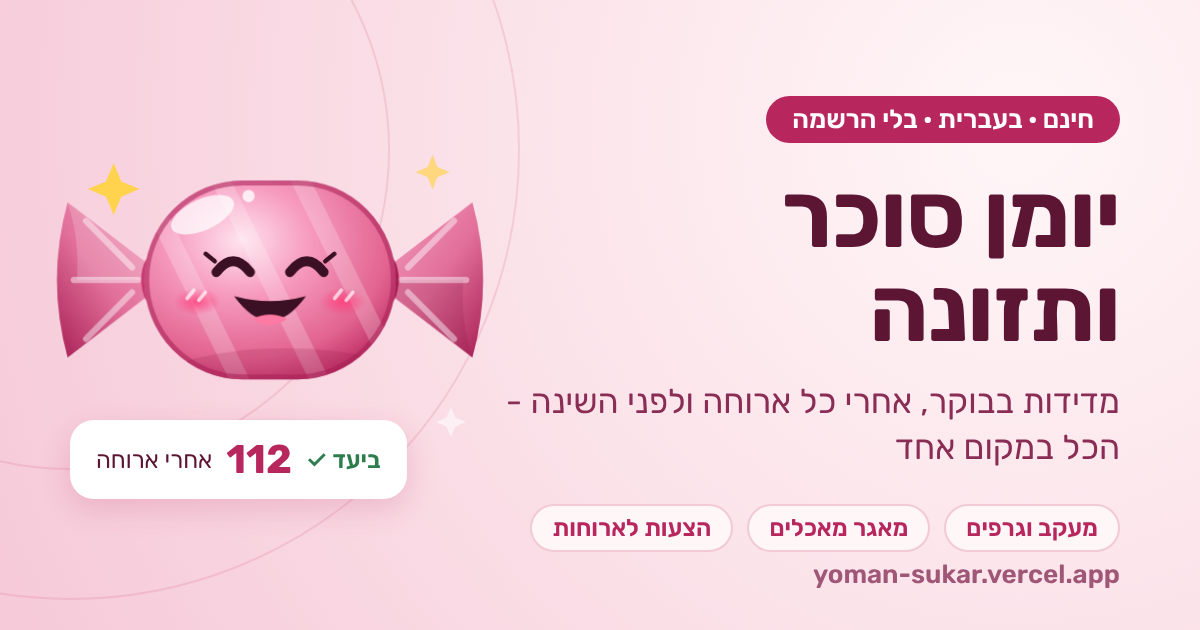
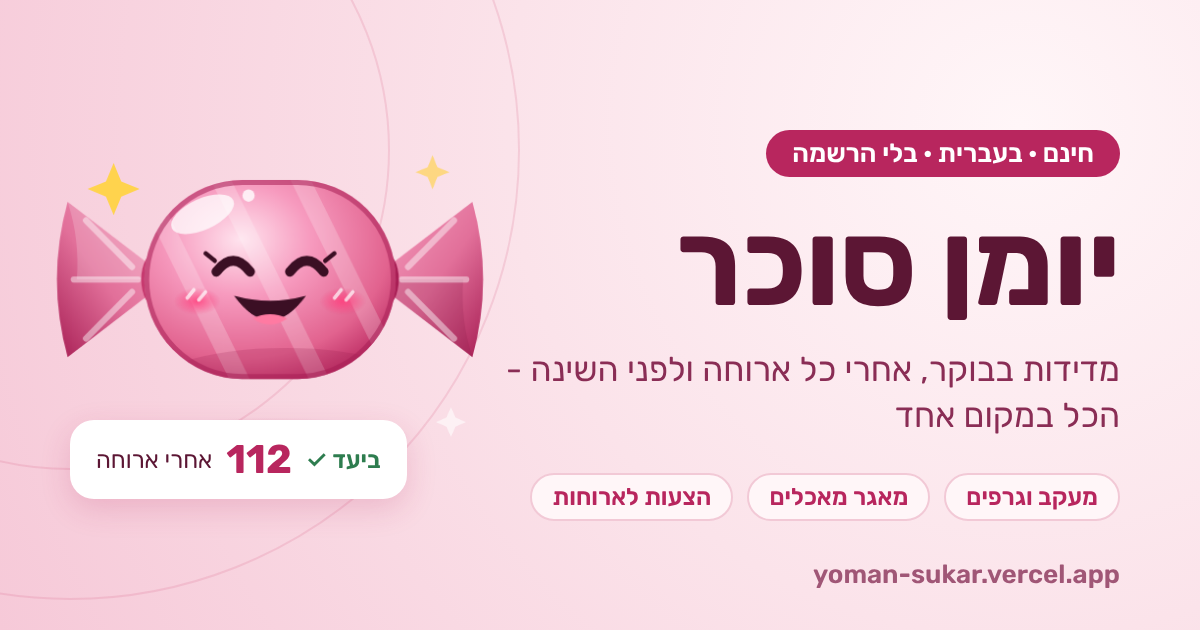
Rename site to יומן סוכר
Claude-Session: https://claude.ai/code/session_014cvJo4JqY7QRdCGnfRo7qm

diff --git a/indexl.html b/indexl.html
@@ -9,25 +9,25 @@
 <link rel="canonical" href="https://yoman-sukar.vercel.app/">
 <meta property="og:type" content="website">
 <meta property="og:locale" content="he_IL">
-<meta property="og:title" content="יומן סוכר ותזונה">
+<meta property="og:title" content="יומן סוכר">
 <meta property="og:description" content="מעקב יומי אחרי ערכי הסוכר והארוחות, במקום אחד ובחינם.">
 <meta property="og:url" content="https://yoman-sukar.vercel.app/">
-<meta property="og:site_name" content="יומן סוכר ותזונה">
+<meta property="og:site_name" content="יומן סוכר">
 <meta property="og:image" content="https://yoman-sukar.vercel.app/og-image.png">
 <meta property="og:image:width" content="1200">
 <meta property="og:image:height" content="630">
-<meta property="og:image:alt" content="יומן סוכר ותזונה - סוכריה מחייכת ותוצאת מדידה ביעד">
+<meta property="og:image:alt" content="יומן סוכר - סוכריה מחייכת ותוצאת מדידה ביעד">
 <meta name="twitter:card" content="summary_large_image">
 <meta name="twitter:image" content="https://yoman-sukar.vercel.app/og-image.png">
 <link rel="icon" href="/favicon.svg" type="image/svg+xml">
 <link rel="icon" href="/favicon-48.png" sizes="48x48" type="image/png">
 <link rel="apple-touch-icon" href="/apple-touch-icon.png">
 <meta name="theme-color" content="#9e1f50">
-<script type="application/ld+json">{"@context": "https://schema.org", "@type": "WebSite", "name": "יומן סוכר ותזונה", "alternateName": ["יומן סוכר"], "url": "https://yoman-sukar.vercel.app/", "inLanguage": "he"}</script>
+<script type="application/ld+json">{"@context": "https://schema.org", "@type": "WebSite", "name": "יומן סוכר", "alternateName": ["יומן סוכר אונליין"], "url": "https://yoman-sukar.vercel.app/", "inLanguage": "he"}</script>
 <style>body{margin:0}</style>
 <script>window.va=window.va||function(){(window.vaq=window.vaq||[]).push(arguments)};</script>
 <script defer src="/_vercel/insights/script.js"></script>
-<script type="application/ld+json">{"@context": "https://schema.org", "@type": "WebApplication", "name": "יומן סוכר ותזונה", "alternateName": ["יומן סוכר", "יומן מדידות סוכר"], "url": "https://yoman-sukar.vercel.app/", "inLanguage": "he", "applicationCategory": "HealthApplication", "operatingSystem": "Any", "offers": {"@type": "Offer", "price": "0", "priceCurrency": "ILS"}, "description": "יומן סוכר אונליין בחינם: רישום מדידות סוכר בצום, שעה ושעתיים אחרי ארוחות ולפני השינה, זיהוי מאכלים שמעלים את הסוכר והורדה לאקסל.", "creator": {"@type": "Person", "name": "נעמי בלייברג"}}</script>
+<script type="application/ld+json">{"@context": "https://schema.org", "@type": "WebApplication", "name": "יומן סוכר", "alternateName": ["יומן סוכר אונליין", "יומן מדידות סוכר"], "url": "https://yoman-sukar.vercel.app/", "inLanguage": "he", "applicationCategory": "HealthApplication", "operatingSystem": "Any", "offers": {"@type": "Offer", "price": "0", "priceCurrency": "ILS"}, "description": "יומן סוכר אונליין בחינם: רישום מדידות סוכר בצום, שעה ושעתיים אחרי ארוחות ולפני השינה, זיהוי מאכלים שמעלים את הסוכר והורדה לאקסל.", "creator": {"@type": "Person", "name": "נעמי בלייברג"}}</script>
 <script type="application/ld+json">{"@context": "https://schema.org", "@type": "FAQPage", "mainEntity": [{"@type": "Question", "name": "האם יומן הסוכר בחינם?", "acceptedAnswer": {"@type": "Answer", "text": "כן. יומן הסוכר חינמי לגמרי, בלי הרשמה ובלי התקנה. נכנסים לאתר ומתחילים לרשום."}}, {"@type": "Question", "name": "מה אפשר לרשום ביומן הסוכר?", "acceptedAnswer": {"@type": "Answer", "text": "מדידת סוכר בצום בבוקר, שעה ושעתיים אחרי כל ארוחה, ארוחות ביניים, ארוחה קלה ומדידה לפני השינה, וגם נפילות סוכר. ליד כל ארוחה רושמים מה אכלת, והיומן מזהה מאכלים שמעלים את הסוכר."}}, {"@type": "Question", "name": "איפה נשמרים הנתונים?", "acceptedAnswer": {"@type": "Answer", "text": "הנתונים נשמרים רק בדפדפן במכשיר שלך, ואף אחד אחר לא רואה אותם. מומלץ להוריד קובץ גיבוי פעם בשבוע."}}, {"@type": "Question", "name": "אפשר להוריד את יומן הסוכר לאקסל?", "acceptedAnswer": {"@type": "Answer", "text": "כן. בלחיצה אחת מורידים את כל המדידות לקובץ אקסל מסודר, ואפשר גם להעתיק סיכום ולשלוח לצוות המטפל."}}, {"@type": "Question", "name": "האם יומן הסוכר מחליף מעקב רפואי?", "acceptedAnswer": {"@type": "Answer", "text": "לא. זהו כלי עזר לרישום ולמעקב אישי. היעדים נקבעים על ידי הצוות המטפל, ויש לפעול לפי ההנחיות שלו."}}]}</script>
 </head>
 <body>
@@ -366,7 +366,7 @@ svg text{fill:var(--muted);font-family:var(--f-body);font-size:11px}
   <header class="hero">
     <div>
       <div class="hello" id="hello">שלום</div>
-      <h1>יומן סוכר ותזונה</h1>
+      <h1>יומן סוכר</h1>
       <p class="intro">מעקב יומי אחרי ערכי הסוכר והארוחות: מדידות בבוקר, אחרי כל ארוחה ולפני השינה, מאגר מאכלים והצעות לארוחות מאוזנות.</p>
       <div class="status" id="status">טוען נתונים…</div>
       <div class="quote">

diff --git a/privacy.html b/privacy.html
@@ -1,6 +1,6 @@
 <!doctype html>
 <html lang="he" dir="rtl"><head><meta charset="utf-8"><meta name="viewport" content="width=device-width,initial-scale=1">
-<title>מדיניות פרטיות | יומן סוכר ותזונה</title><meta name="robots" content="index, follow">
+<title>מדיניות פרטיות | יומן סוכר</title><meta name="robots" content="index, follow">
 <link rel="icon" href="/favicon.svg" type="image/svg+xml"><link rel="apple-touch-icon" href="/apple-touch-icon.png">
 <style>
 :root{--bg:#fbe3ea;--surface:#fff6f8;--ink:#5c1634;--muted:#7d2a4d;--accent:#9e1f50;--line:#f2c9d6}

diff --git a/accessibility.html b/accessibility.html
@@ -1,6 +1,6 @@
 <!doctype html>
 <html lang="he" dir="rtl"><head><meta charset="utf-8"><meta name="viewport" content="width=device-width,initial-scale=1">
-<title>הצהרת נגישות | יומן סוכר ותזונה</title><meta name="robots" content="index, follow">
+<title>הצהרת נגישות | יומן סוכר</title><meta name="robots" content="index, follow">
 <link rel="icon" href="/favicon.svg" type="image/svg+xml"><link rel="apple-touch-icon" href="/apple-touch-icon.png">
 <style>
 :root{--bg:#fbe3ea;--surface:#fff6f8;--ink:#5c1634;--muted:#7d2a4d;--accent:#9e1f50;--line:#f2c9d6}
